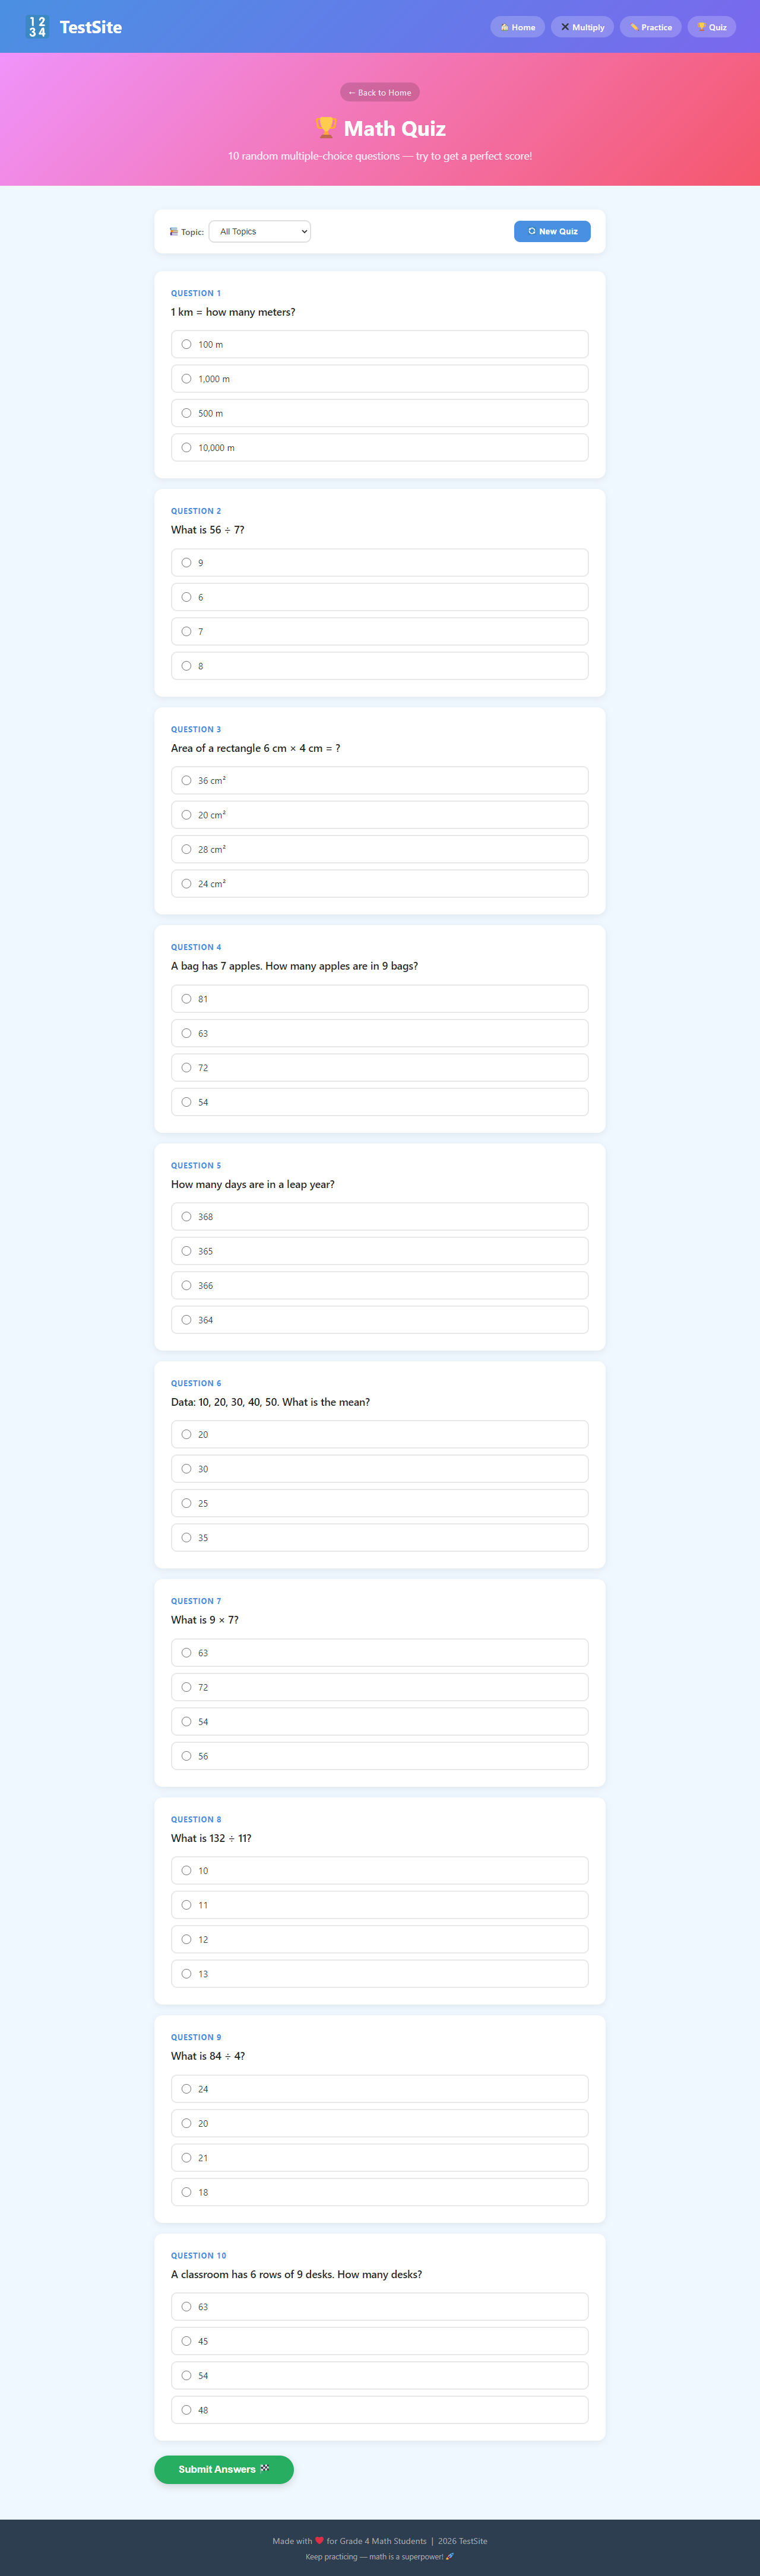
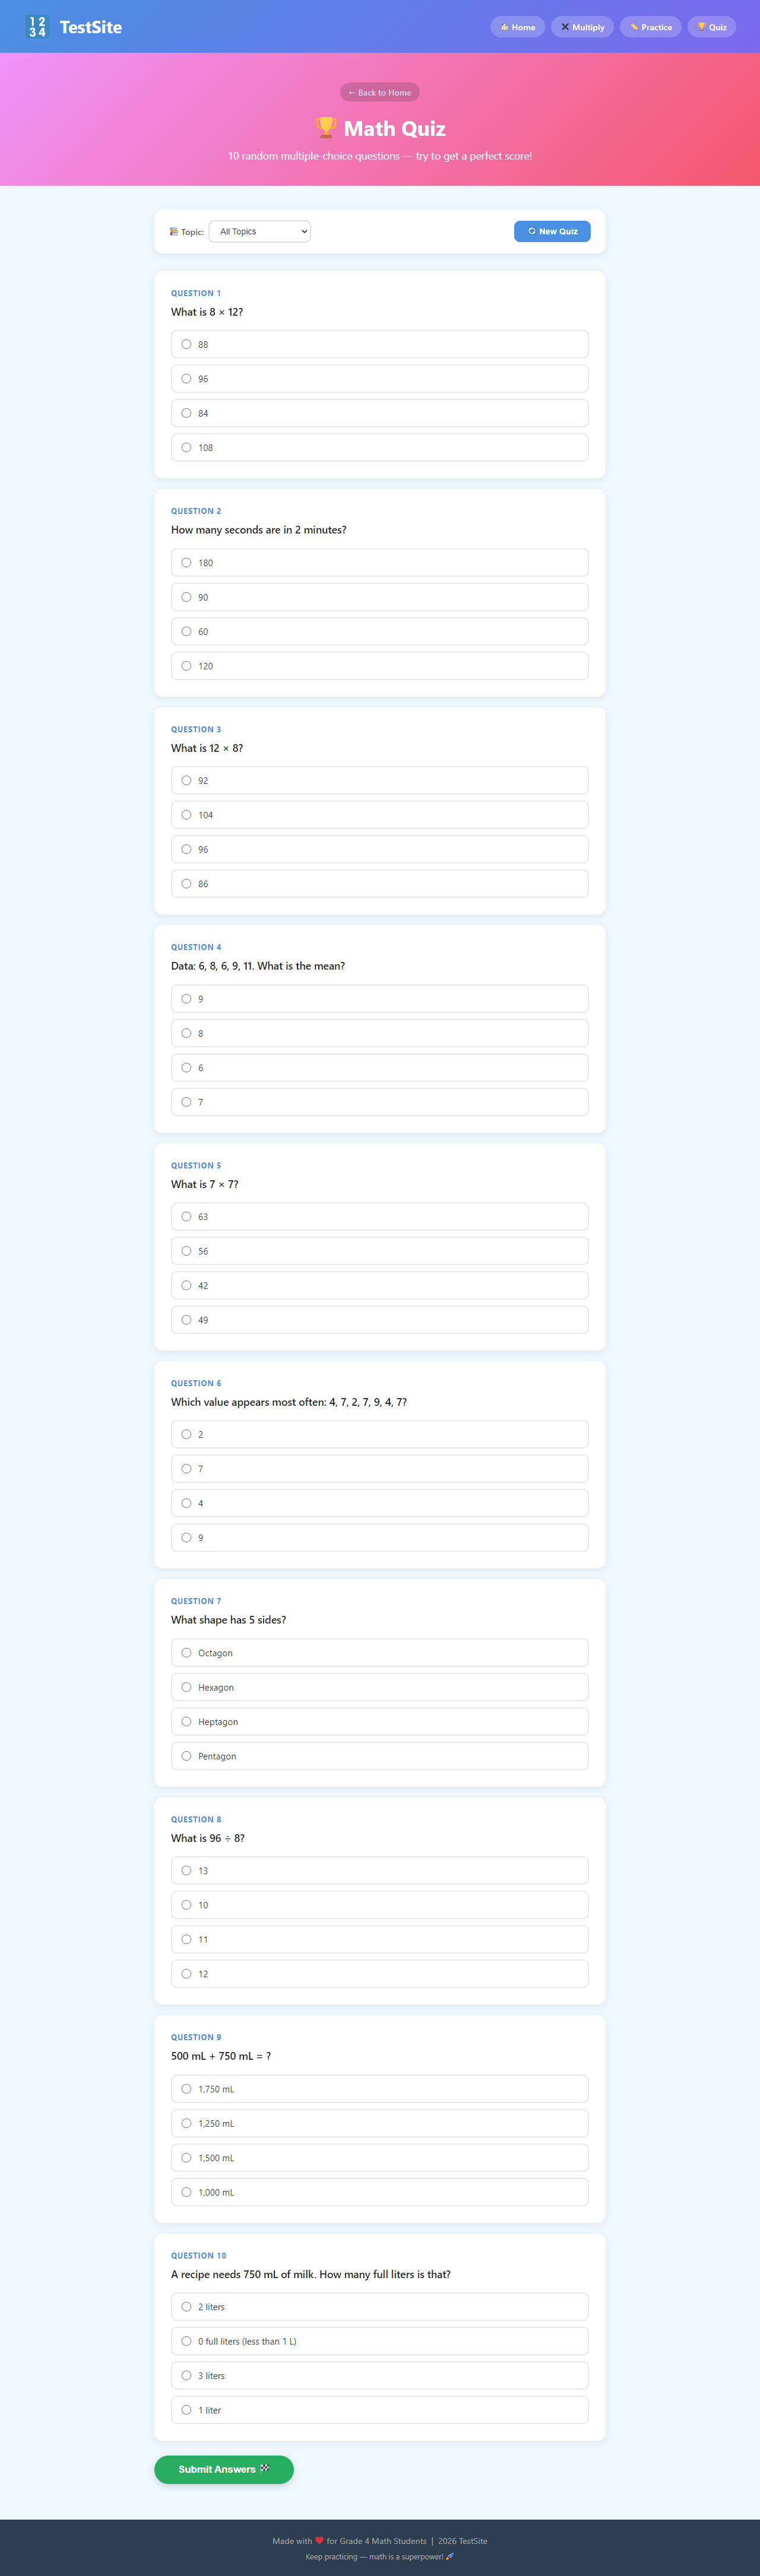
Add student answer input to Math Problem block + update README
- New studentAnswer attribute in block.json
- edit.js: dedicated student answer RichText field
- save.js: renders live <input> field for students to type in
- index.js: deprecated handler so old blocks don't break
- style.css: styles for student answer input (dashed border, focus state)
- README: updated screenshots and block feature description

Changed region(s): [[0.2812, 0.6531, 0.3125, 0.6842]]

diff --git a/wp-content/plugins/grade4math-blocks/src/style.css b/wp-content/plugins/grade4math-blocks/src/style.css
@@ -52,6 +52,55 @@
     margin-bottom: 14px;
 }
 
+/* Student Answer Input */
+.mp-student-answer-wrap {
+    margin: 14px 0;
+}
+.mp-student-answer-label {
+    display: block;
+    font-size: .8rem;
+    font-weight: 700;
+    color: #555;
+    margin-bottom: 6px;
+    text-transform: uppercase;
+    letter-spacing: .5px;
+}
+.mp-student-answer-input {
+    width: 100%;
+    padding: 10px 14px;
+    border: 2px dashed #bbb;
+    border-radius: 8px;
+    font-size: 1rem;
+    font-family: inherit;
+    background: rgba(255,255,255,.7);
+    color: #333;
+    outline: none;
+    transition: border-color .2s;
+}
+.mp-student-answer-input:focus {
+    border-color: #4a90e2;
+    border-style: solid;
+    background: #fff;
+}
+
+/* Editor preview of student answer */
+.mp-student-answer-editor {
+    background: rgba(255,255,255,.55);
+    border: 2px dashed #ccc;
+    border-radius: 8px;
+    padding: 12px 14px;
+    margin: 10px 0;
+}
+.mp-student-answer-editor .mp-student-answer-label {
+    font-size: .78rem;
+    font-weight: 700;
+    color: #4a90e2;
+    margin-bottom: 6px;
+    text-transform: uppercase;
+    letter-spacing: .5px;
+    display: block;
+}
+
 /* Show / Hide (details/summary) */
 .mp-details { margin-top: 4px; }
 

diff --git a/wp-content/plugins/grade4math-blocks/src/index.js b/wp-content/plugins/grade4math-blocks/src/index.js
@@ -1,7 +1,44 @@
 import { registerBlockType } from '@wordpress/blocks';
+import { useBlockProps, RichText } from '@wordpress/block-editor';
 import metadata from './block.json';
 import Edit from './edit';
 import save from './save';
 import './style.css';
 
-registerBlockType( metadata.name, { edit: Edit, save } );
+/* Handles blocks saved before the studentAnswer field was added */
+const deprecated = [
+    {
+        attributes: {
+            question: { type: 'string', default: '' },
+            answer:   { type: 'string', default: '' },
+            hint:     { type: 'string', default: '' },
+            level:    { type: 'string', default: 'easy' },
+            topic:    { type: 'string', default: 'multiplication' },
+        },
+        save( { attributes } ) {
+            const LEVEL_LABELS = { easy: '⭐ Easy', medium: '⭐⭐ Medium', hard: '⭐⭐⭐ Challenge' };
+            const TOPIC_LABELS = { multiplication: '✖️ Multiplication', division: '➗ Division', fractions: '½ Fractions', geometry: '📐 Geometry', measurement: '📏 Measurement', data: '📊 Data & Graphs' };
+            const { question, answer, hint, level, topic } = attributes;
+            const blockProps = useBlockProps.save( { className: `math-problem-block level-${ level }` } );
+            return (
+                <div { ...blockProps }>
+                    <div className="mp-badge">
+                        <span className="mp-level">{ LEVEL_LABELS[ level ] }</span>
+                        <span className="mp-sep">·</span>
+                        <span className="mp-topic">{ TOPIC_LABELS[ topic ] }</span>
+                    </div>
+                    <RichText.Content tagName="div" className="mp-question" value={ question } />
+                    { hint && <div className="mp-hint">💡 Hint: { hint }</div> }
+                    <details className="mp-details">
+                        <summary className="mp-show-btn">Show Answer</summary>
+                        <div className="mp-answer-reveal">
+                            ✅ <RichText.Content tagName="span" value={ answer } />
+                        </div>
+                    </details>
+                </div>
+            );
+        },
+    },
+];
+
+registerBlockType( metadata.name, { edit: Edit, save, deprecated } );

diff --git a/wp-content/plugins/grade4math-blocks/src/edit.js b/wp-content/plugins/grade4math-blocks/src/edit.js
@@ -18,7 +18,7 @@ const TOPICS = [
 ];
 
 export default function Edit( { attributes, setAttributes } ) {
-    const { question, answer, hint, level, topic } = attributes;
+    const { question, answer, hint, level, topic, studentAnswer } = attributes;
 
     const blockProps = useBlockProps( {
         className: `math-problem-block level-${ level }`,
@@ -66,31 +66,35 @@ export default function Edit( { attributes, setAttributes } ) {
                     onChange={ val => setAttributes( { question: val } ) }
                     placeholder="Type your math question here…"
                 />
-						
-						 <RichText
-                    tagName="div"
-                    className="mp-answer-question"
-                    value={ question }
-                    onChange={ val => setAttributes( { question: val } ) }
-                    placeholder="Type your answer here…"
-                />
 
                 { hint && (
                     <div className="mp-hint">💡 Hint: { hint }</div>
                 ) }
 
+                <div className="mp-student-answer-editor">
+                    <div className="mp-student-answer-label">✏️ Student Answer Line</div>
+                    <RichText
+                        tagName="div"
+                        className="mp-student-answer-preview"
+                        value={ studentAnswer }
+                        onChange={ val => setAttributes( { studentAnswer: val } ) }
+                        placeholder="Optional: pre-fill a sample answer or leave blank for students to fill in…"
+                    />
+                    <p className="mp-editor-note">👆 Shows as a writeable input on the live site.</p>
+                </div>
+
                 <div className="mp-answer-editor">
-                    <div className="mp-answer-label">✅ Answer</div>
+                    <div className="mp-answer-label">✅ Correct Answer (hidden)</div>
                     <RichText
                         tagName="div"
                         className="mp-answer-text"
                         value={ answer }
                         onChange={ val => setAttributes( { answer: val } ) }
-                        placeholder="Type the answer here…"
+                        placeholder="Type the correct answer here…"
                     />
                 </div>
 
-                <p className="mp-editor-note">👆 Answer will be hidden with a Show/Hide button on the live site.</p>
+                <p className="mp-editor-note">👆 Correct answer will be hidden with a Show/Hide button on the live site.</p>
             </div>
         </>
     );

diff --git a/wp-content/plugins/grade4math-blocks/src/save.js b/wp-content/plugins/grade4math-blocks/src/save.js
@@ -16,7 +16,7 @@ const TOPIC_LABELS = {
 };
 
 export default function save( { attributes } ) {
-    const { question, answer, hint, level, topic } = attributes;
+    const { question, answer, hint, level, topic, studentAnswer } = attributes;
 
     const blockProps = useBlockProps.save( {
         className: `math-problem-block level-${ level }`,
@@ -35,6 +35,16 @@ export default function save( { attributes } ) {
             { hint && (
                 <div className="mp-hint">💡 Hint: { hint }</div>
             ) }
+
+            <div className="mp-student-answer-wrap">
+                <label className="mp-student-answer-label">✏️ Your Answer:</label>
+                <input
+                    type="text"
+                    className="mp-student-answer-input"
+                    defaultValue={ studentAnswer || '' }
+                    placeholder="Write your answer here…"
+                />
+            </div>
 
             <details className="mp-details">
                 <summary className="mp-show-btn">Show Answer</summary>

diff --git a/wp-content/README.md b/wp-content/README.md
@@ -19,7 +19,9 @@ A custom WordPress site built as an interactive math learning platform for Grade
 ### Quiz
 ![Quiz](screenshots/quiz.png)
 
-### Easy Level Page (Gutenberg blocks)
+### Easy Level Page — Math Problem Block (Gutenberg)
+> Each problem card is a custom Gutenberg block. Students can type their answer directly, then reveal the correct answer.
+
 ![Easy Level](screenshots/easy-level.png)
 
 ---
@@ -29,7 +31,12 @@ A custom WordPress site built as an interactive math learning platform for Grade
 - **6 Math Topics** — Multiplication, Division, Fractions, Geometry, Measurement, Data & Graphs
 - **Random Practice Problems** — 90+ problems across all topics, filtered by topic and difficulty
 - **Random Quiz** — 10 multiple-choice questions per session with live scoring
-- **Custom Gutenberg Block** — "Math Problem" block for teachers to add styled problems anywhere
+- **Custom Gutenberg Block** — "Math Problem" block with:
+  - Question field
+  - Student answer input (students type directly on the page)
+  - Hidden correct answer revealed via Show/Hide button
+  - Difficulty level and topic badge
+  - Optional hint
 - **Fully custom theme** — built from scratch with PHP, CSS, and JavaScript
 
 ## Tech Stack
@@ -63,8 +70,8 @@ wp-content/
     └── grade4math-blocks/     # Custom Gutenberg block plugin
         ├── grade4math-blocks.php
         ├── src/
-        │   ├── block.json     # Block metadata
-        │   ├── index.js       # Block registration
+        │   ├── block.json     # Block metadata + attributes
+        │   ├── index.js       # Block registration + deprecated handler
         │   ├── edit.js        # Editor component (React)
         │   ├── save.js        # Frontend HTML output
         │   └── style.css      # Block styles (editor + frontend)